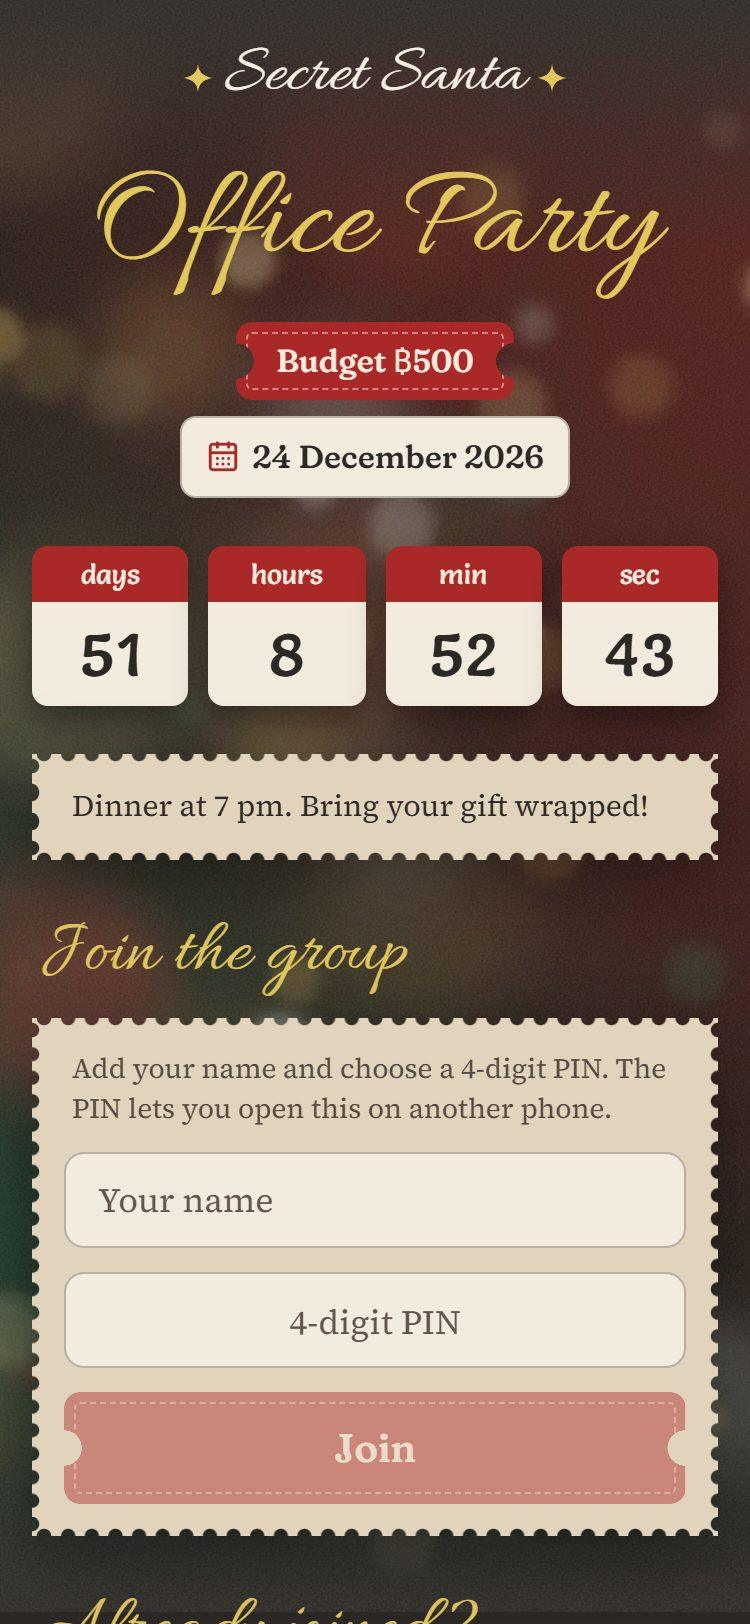
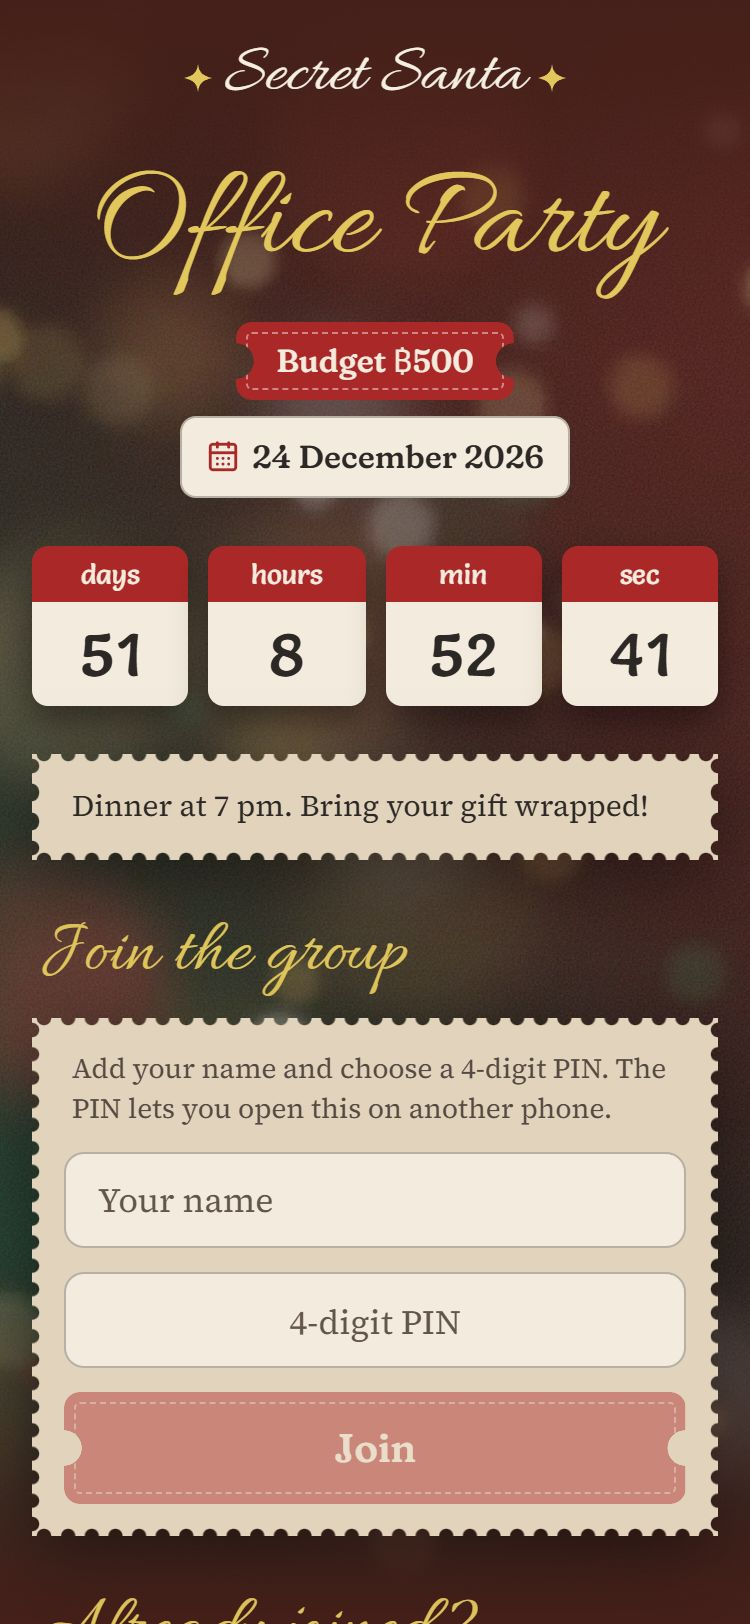
Update the README pictures for the maroon screen edges
The pictures still showed the charcoal top and bottom edges from before the
edges were matched to the maroon of the lights. Retaken at the same size
with the same demo group; the Edit people sheet, mostly covered by its
backdrop, and the invite card are unchanged. The home page is about 320 KB
now, and the speed note says how open pages check for changes.

diff --git a/README.md b/README.md
@@ -57,7 +57,7 @@ The screenshots use a demo group with made-up names.
 **Everywhere**
 - An English interface. Names and wishes people type can be in Thai too, with matching Thai fonts.
 - The Cultural Fest 2027 look: grainy blurred lights, gold script, stamp-edged cream cards and punched tickets, recorded in [DESIGN.md](DESIGN.md).
-- Fast on phones: about 200 KB for the home page, and only the font weights and axes the site uses.
+- Fast on phones: about 320 KB for the home page, and only the font weights and axes the site uses. An open page checks for changes with one request every few seconds, and stops while it's in the background.
 - Reduced motion is respected.
 
 ## How the secret is kept
